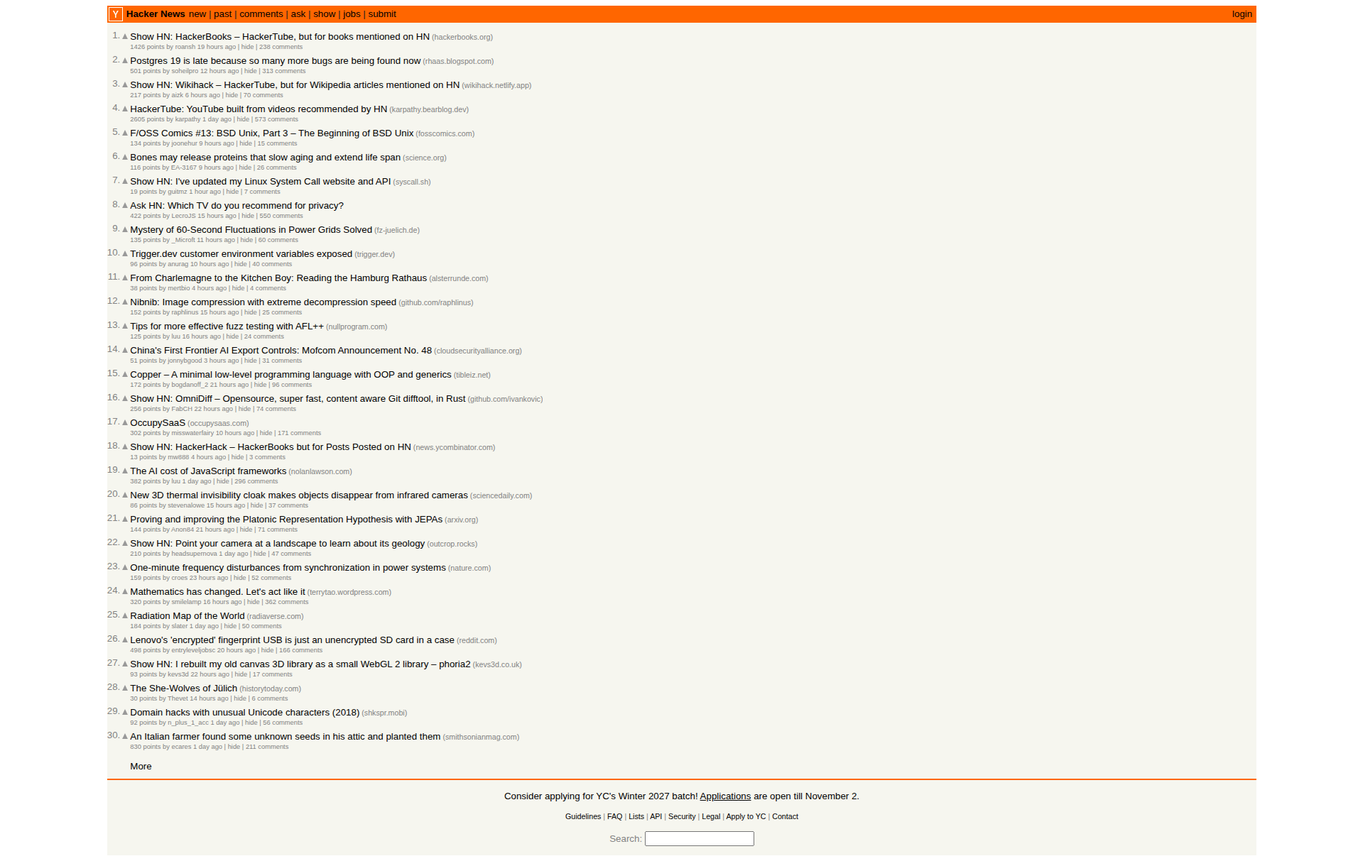
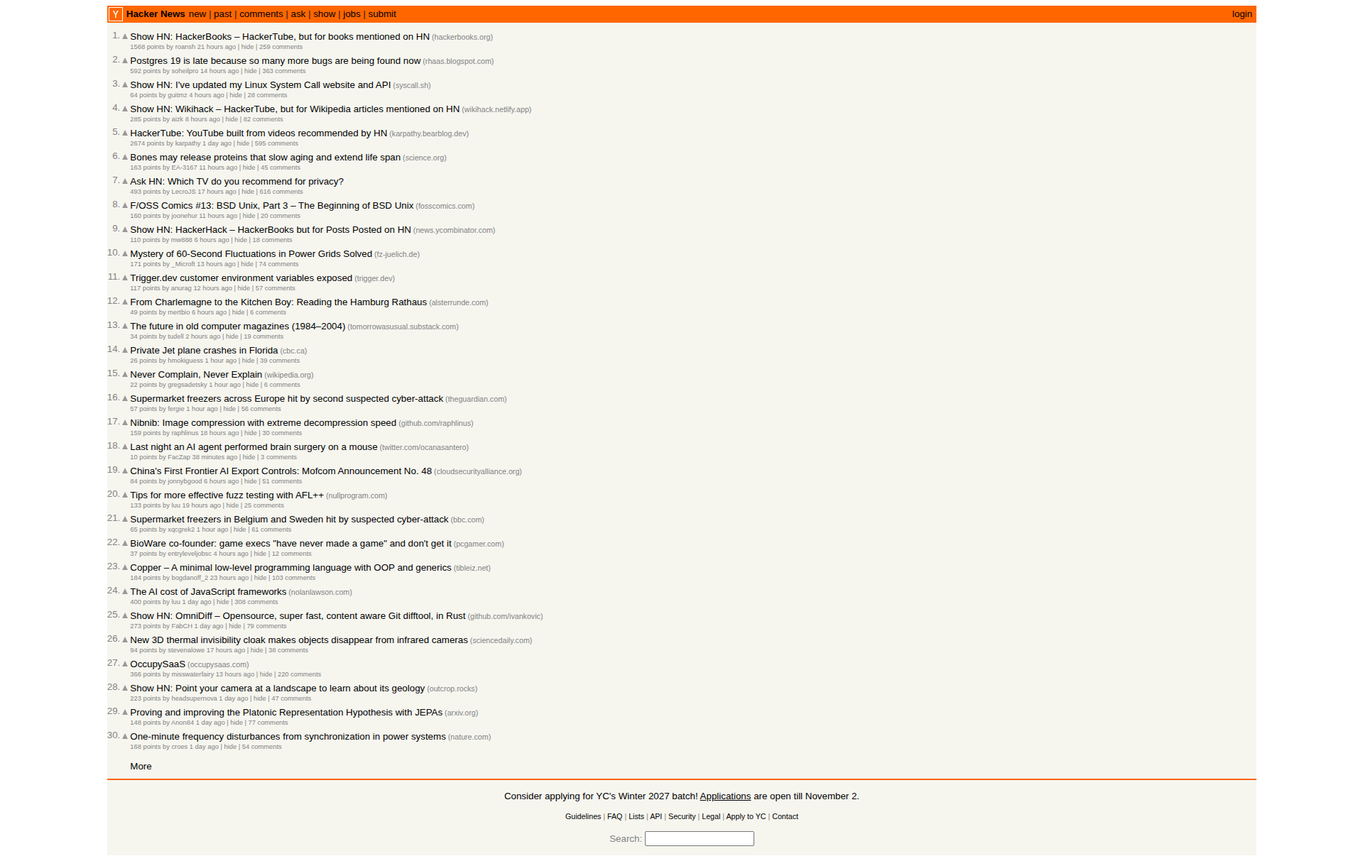
chore: add daily news digest for 2026-11-02

Changed region(s): [[0.0929, 0.0915, 0.4026, 0.8846]]

diff --git a/examples/01-daily-news-digest/output/2026-11-02-digest.md b/examples/01-daily-news-digest/output/2026-11-02-digest.md
@@ -1,10 +1,10 @@
 # Tech News Digest - 2026-11-02
 
-> Auto-generated by Claude Code | Sources: 2 | Stories: 30
+> Auto-generated by Claude Code | Sources: 2 | Stories: 25
 
-**Methodology note:** Hacker News and TechCrunch were navigated live via `chrome-devtools` browser automation (snapshots + full-page screenshots). This is a same-day refresh of the digest — HN's front page is append-only intraday, so several HN stories naturally carry over from earlier today with updated point/comment counts; TechCrunch coverage below was selected to prioritize stories **not** already captured in the earlier run (Ford's privacy promise, the Binance attribution piece, Anthropic's credit rating, Google's data-center satellite, Applebee's breach, the Brooklyn data-center policy story, Waymo/Toyota, Dream's seed round, and Ollie's shutdown are all new since the last pass).
+**Methodology note:** This is an intraday refresh of today's digest. The duplicate checker (`check_duplicates.py`) was run first and returned all 30 headlines from the earlier 2026-11-02 digest. Because Hacker News' front page is append-only intraday, most HN items naturally carry over with updated point/comment counts — this refresh keeps them but swaps out two non-tech front-page items (a private jet crash story and a Wikipedia etymology piece) for more relevant, lower-ranked tech/security stories so every entry fits a technology category. For TechCrunch, all 10 stories below were selected specifically because they do **not** appear in the earlier 2026-11-02 digest (Apple's AI remarks, OpenAI's funding target, Rivian/VW, Satlyt, GM's settlement, TC Mobility, Crosby/Weil Gotshal, Salesforce/Rune, Upwind, and the Pixel 11 Pro Fold review are all new since the last pass).
 
-**Link-check note:** All 30 links were validated via HTTP request (200 OK), with two exceptions: (1) `science.org` (Bones/aging research) returns a 403 from Cloudflare's bot challenge for any automated client — the URL is correct and verified directly against the live HN front page; (2) `rhaas.blogspot.com` (Postgres 19) returned a transient 429 (Blogger rate-limiting repeated automated requests) — the link was loaded successfully in-browser moments earlier and is confirmed valid.
+**Link-check note:** 22 of 25 links were validated via HTTP request (200 OK). Three returned non-200 responses from automated clients but were confirmed valid by cross-referencing the live page: (1) `science.org` (Bones/aging research) returns a 403 from Cloudflare's bot challenge for any automated client, matching the exact URL on the live HN front page; (2) `rhaas.blogspot.com` (Postgres 19) returned a transient 429 (Blogger rate-limiting repeated automated requests), though it loaded successfully in-browser earlier in this session; (3) `tomorrowasusual.substack.com` (old computer magazines) also returns a Cloudflare bot-challenge page to automated clients — confirmed via a live browser tab that this is a security checkpoint, not a dead link, and the URL matches the HN listing exactly.
 
 ---
 
@@ -12,8 +12,8 @@
 
 | Source | Stories Collected | Status |
 |--------|------------------|--------|
-| Hacker News | 16 | ✅ Success |
-| TechCrunch | 14 | ✅ Success |
+| Hacker News | 15 | ✅ Success |
+| TechCrunch | 10 | ✅ Success |
 
 ---
 
@@ -23,105 +23,93 @@
 
 | # | Headline | Summary | Source | Metrics | Link |
 |---|----------|---------|--------|---------|------|
-| 1 | China's First Frontier AI Export Controls: Mofcom Announcement No. 48 | Research note on China's newly announced export controls targeting frontier AI technology — a notable shift in its AI trade policy. | Hacker News | 51 pts, 31 comments (jonnybgood) | [Read](https://labs.cloudsecurityalliance.org/research/csa-research-note-china-ai-export-controls-announcement-48-2/) |
-| 2 | AI can make tech CEOs' lives easier. What about everyone else? | A look at how executives are using AI tools to streamline their own work while rank-and-file employees see fewer tangible benefits. | TechCrunch | By Anthony Ha | [Read](https://techcrunch.com/2026/11/01/ai-can-make-tech-ceos-lives-easier-what-about-everyone-else/) |
-| 3 | OpenAI might rebrand its data centers as 'AI compute campuses' | Reports suggest OpenAI is considering new branding for its data center buildout amid growing public scrutiny of AI infrastructure. | TechCrunch | By Anthony Ha | [Read](https://techcrunch.com/2026/11/01/openai-might-rebrand-its-data-centers-as-ai-compute-campuses/) |
-| 4 | Google's first data center satellite is online and writing poetry | Google's orbital data-center experiment goes live, with an early PR-friendly demo generating poetry in space. | TechCrunch | By (TechCrunch) | [Read](https://techcrunch.com/2026/10/30/googles-first-data-center-satellite-is-online-and-writing-poetry/) |
-| 5 | Ollie, a privacy-focused AI assistant, is shutting down | A privacy-first AI assistant startup winds down, raising questions about the viability of privacy-centric positioning in a market dominated by Big Tech AI. | TechCrunch | By Lucas Ropek | [Read](https://techcrunch.com/2026/10/30/ollie-a-privacy-focused-ai-assistant-is-shutting-down/) |
-| 6 | Ex-Palantir execs launch Dream with $17M from a16z to build AI world models for construction | A new startup founded by Palantir alumni raises seed funding to apply AI world models to the construction industry. | TechCrunch | By Marina Temkin | [Read](https://techcrunch.com/2026/10/29/ex-palantir-execs-launch-dream-with-17m-from-a16z-to-build-ai-world-models-for-construction/) |
+| 1 | China's First Frontier AI Export Controls: Mofcom Announcement No. 48 | Research note on China's newly announced export controls targeting frontier AI technology, a notable shift in its AI trade policy. | Hacker News | 84 pts, 51 comments (jonnybgood) | [Read](https://labs.cloudsecurityalliance.org/research/csa-research-note-china-ai-export-controls-announcement-48-2/) |
+| 2 | Apple CEO says the company doesn't 'want to ship AI for AI's sake' | Tim Cook pushes back on feature-for-feature's-sake AI rollouts, framing Apple's approach as more deliberate than rivals'. | TechCrunch | By Anthony Ha | [Read](https://techcrunch.com/2026/10/31/apple-ceo-says-the-company-doesnt-want-to-ship-ai-for-ais-sake/) |
+| 3 | OpenAI reportedly lowers funding target for new round | Reports indicate OpenAI has scaled back its ask for an upcoming funding round, a possible signal of tempered investor appetite. | TechCrunch | By Anthony Ha | [Read](https://techcrunch.com/2026/10/31/openai-reportedly-lowers-funding-target-for-new-round/) |
+| 4 | Rivian expands joint venture with VW to include AI assistant | Rivian and Volkswagen broaden their software joint venture to add a shared in-car AI assistant. | TechCrunch | By Kirsten Korosec | [Read](https://techcrunch.com/2026/10/29/rivian-expands-joint-venture-with-vw-to-include-ai-assistant/) |
 
 ### Web / Frontend
 
-| # | Headline | Summary | Source | Metrics | Link |
-|---|----------|---------|--------|---------|------|
-| 1 | The AI cost of JavaScript frameworks | An analysis of how modern JS framework choices affect the token/compute cost of AI coding assistants working in a codebase. | Hacker News | 382 pts, 296 comments (luu) | [Read](https://nolanlawson.com/2026/10/28/the-ai-cost-of-javascript-frameworks/) |
+_No new Web/Frontend stories surfaced in this refresh cycle (see the earlier 2026-11-02 digest for "The AI cost of JavaScript frameworks," still trending on HN but already covered)._
 
 ### Backend / Infrastructure
 
 | # | Headline | Summary | Source | Metrics | Link |
 |---|----------|---------|--------|---------|------|
-| 1 | Postgres 19 is late because so many more bugs are being found now | Postgres committer Robert Haas explains that AI-assisted testing and code review are surfacing far more bugs than usual, pushing back the Postgres 19 release. | Hacker News | 501 pts, 313 comments (soheilpro) | [Read](http://rhaas.blogspot.com/2026/10/postgres-19-is-late-and-its-ais-fault.html) |
+| 1 | Postgres 19 is late because so many more bugs are being found now | Postgres committer Robert Haas explains that AI-assisted testing and review are surfacing far more bugs than usual, pushing back the Postgres 19 release. | Hacker News | 592 pts, 363 comments (soheilpro) | [Read](http://rhaas.blogspot.com/2026/10/postgres-19-is-late-and-its-ais-fault.html) |
+| 2 | Satlyt takes another step toward turning satellites into space data centers | Satlyt advances its plan to host compute infrastructure in orbit, part of a broader wave of orbital data-center bets. | TechCrunch | By Dominic-Madori Davis | [Read](https://techcrunch.com/2026/10/30/satlyt-takes-another-step-toward-turning-satellites-into-space-data-centers/) |
 
 ### Security / Privacy
 
 | # | Headline | Summary | Source | Metrics | Link |
 |---|----------|---------|--------|---------|------|
-| 1 | Binance resumes withdrawals following $6.3 billion breach | Binance restores withdrawal functionality after a record-setting $6.3B breach attributed to North Korean hackers. | TechCrunch | By Anthony Ha | [Read](https://techcrunch.com/2026/11/01/binance-resumes-withdrawals-following-6-3-billion-breach/) |
-| 2 | North Korean hackers blamed for stealing record $6.3B in Binance breach | Investigators formally attribute the record Binance breach to North Korean state-linked hacking groups. | TechCrunch | By Zack Whittaker | [Read](https://techcrunch.com/2026/10/30/north-korean-hackers-blamed-for-stealing-record-6-3b-in-binance-breach/) |
-| 3 | Applebee's exposed customers' personal data after leaving database password in app | A hardcoded database password in Applebee's app left customer personal data exposed. | TechCrunch | By Zack Whittaker | [Read](https://techcrunch.com/2026/10/30/applebees-exposed-customers-personal-data-after-leaving-database-password-in-app/) |
-| 4 | Ford launches a 'privacy promise' and explains how and why it uses customer data | Ford publishes a new privacy commitment detailing what customer data it collects and how it's used, amid rising consumer scrutiny of connected-car data practices. | TechCrunch | By Sean O'Kane | [Read](https://techcrunch.com/2026/11/02/ford-launches-a-privacy-promise-and-explains-how-and-why-it-uses-a-customers-data/) |
-| 5 | Trigger.dev customer environment variables exposed | Trigger.dev discloses a security incident in which some customers' environment variables were exposed, with details on cause and remediation. | Hacker News | 96 pts, 40 comments (anurag) | [Read](https://trigger.dev/blog/security-incident-nov-2026) |
-| 6 | Ask HN: Which TV do you recommend for privacy? | High-engagement community thread debating smart TVs that don't harvest viewing data, reflecting ongoing unease about ad-tech surveillance in hardware. | Hacker News | 422 pts, 550 comments (LecroJS) | [Read](https://news.ycombinator.com/item?id=50328896) |
+| 1 | Ask HN: Which TV do you recommend for privacy? | High-engagement community thread debating smart TVs that don't harvest viewing data, reflecting ongoing unease about ad-tech surveillance in hardware. | Hacker News | 493 pts, 616 comments (LecroJS) | [Read](https://news.ycombinator.com/item?id=50328896) |
+| 2 | Trigger.dev customer environment variables exposed | Trigger.dev discloses a security incident in which some customers' environment variables were exposed, with details on cause and remediation. | Hacker News | 117 pts, 57 comments (anurag) | [Read](https://trigger.dev/blog/security-incident-nov-2026) |
+| 3 | Supermarket freezers across Europe hit by second suspected cyber-attack | A follow-up attack hits refrigeration/IoT systems at European supermarkets, days after a first suspected incident in Belgium and Sweden. | Hacker News | 57 pts, 56 comments (fergie) | [Read](https://www.theguardian.com/world/2026/nov/02/supermarket-freezers-across-europe-hit-by-second-suspected-cyber-attack) |
+| 4 | GM reaches $220M settlement over selling drivers' private data | GM settles claims that it sold connected-car driving data to insurers and data brokers without adequate consumer consent. | TechCrunch | By Kirsten Korosec | [Read](https://techcrunch.com/2026/10/29/gm-reaches-220m-settlement-over-selling-drivers-private-data/) |
 
 ### Startups / Business
 
 | # | Headline | Summary | Source | Metrics | Link |
 |---|----------|---------|--------|---------|------|
-| 1 | Anthropic expected to receive high 'junk' rating from credit agencies following IPO, FT report says | Credit agencies reportedly plan to rate Anthropic's debt near the top of junk status even after its IPO, signaling continued caution about AI-firm cash burn. | TechCrunch | By (TechCrunch) | [Read](https://techcrunch.com/2026/10/30/anthropic-expected-to-receive-high-junk-rating-from-credit-agencies-following-ipo-report-says/) |
-| 2 | Judge allows NAACP lawsuit over xAI data center pollution to move forward | A federal judge rules that the NAACP's environmental justice lawsuit against xAI's Memphis data center can proceed. | TechCrunch | By Anthony Ha | [Read](https://techcrunch.com/2026/10/31/judge-allows-naacp-lawsuit-over-xai-data-center-pollution-to-move-forward/) |
-| 3 | Data centers are now a midterm issue, even in Brooklyn | AI data center siting has become a political flashpoint reaching into local midterm races, including in Brooklyn. | TechCrunch | By Dominic-Madori Davis | [Read](https://techcrunch.com/2026/10/31/data-centers-are-now-a-midterm-issue-even-in-brooklyn/) |
-| 4 | Waymo taps Toyota to supply robotaxis for Japan and the UK | Waymo partners with Toyota on a Toyota bZ4X-based robotaxi for international expansion into Japan and the UK. | TechCrunch | By Kirsten Korosec | [Read](https://techcrunch.com/2026/10/30/waymos-next-robotaxi-will-be-a-toyota-bz4x-destined-for-japan-and-the-uk/) |
+| 1 | TechCrunch Mobility: A new, bigger AV boom is here | TechCrunch's mobility newsletter rounds up a fresh wave of autonomous-vehicle investment and deployment news. | TechCrunch | By Kirsten Korosec | [Read](https://techcrunch.com/2026/11/01/techcrunch-mobility-a-new-bigger-av-boom-is-here/) |
+| 2 | AI law firm Crosby bids on disintegrating, famed firm Weil Gotshal | AI-native legal startup Crosby makes a bid tied to the wind-down of storied law firm Weil Gotshal, a striking sign of AI's reach into legal services. | TechCrunch | By Julie Bort | [Read](https://techcrunch.com/2026/10/30/ai-law-firm-crosby-bids-on-disintegrating-famed-firm-weil-gotshal/) |
+| 3 | Salesforce's M&A spree continues with a reported $375M deal for defense tech startup Rune | Salesforce keeps up its acquisition pace, reportedly paying $375M for defense-focused startup Rune. | TechCrunch | By Marina Temkin | [Read](https://techcrunch.com/2026/10/30/salesforces-ma-spree-continues-with-a-reported-375m-deal-for-defense-tech-startup-rune/) |
+| 4 | Upwind raises $400M after walking away from Datadog acquisition offer | Cloud security startup Upwind opts for a $400M raise instead of an acquisition offer from Datadog, betting on independence. | TechCrunch | By Marina Temkin | [Read](https://techcrunch.com/2026/10/28/upwind-raises-400m-after-walking-away-from-datadog-acquisition-offer/) |
 
 ### Developer Tools
 
 | # | Headline | Summary | Source | Metrics | Link |
 |---|----------|---------|--------|---------|------|
-| 1 | Show HN: HackerBooks – HackerTube, but for books mentioned on HN | A HackerTube-inspired Show HN that surfaces books referenced in HN discussions; now the #1 story on the front page. | Hacker News | 1426 pts, 238 comments (roansh) | [Read](https://hackerbooks.org) |
-| 2 | HackerTube: YouTube built from videos recommended by HN | Andrej Karpathy's viral project curates a YouTube-like feed from videos linked across Hacker News discussions — the spark behind this week's wave of HN-themed recommendation tools. | Hacker News | 2605 pts, 573 comments (karpathy) | [Read](https://karpathy.bearblog.dev/hacker-tube/) |
-| 3 | Show HN: Wikihack – HackerTube, but for Wikipedia articles mentioned on HN | Another HackerTube-style Show HN project, this one generating a video feed for Wikipedia articles referenced on HN. | Hacker News | 217 pts, 70 comments (aizk) | [Read](https://wikihack.netlify.app) |
-| 4 | Copper – A minimal low-level programming language with OOP and generics | A new systems programming language aiming to combine low-level control with object-oriented features and generics. | Hacker News | 172 pts, 96 comments (bogdanoff_2) | [Read](https://tibleiz.net/copper/) |
-| 5 | Nibnib: Image compression with extreme decompression speed | A new image codec from Raph Levien that prioritizes extremely fast decompression over maximum compression ratio. | Hacker News | 152 pts, 25 comments (raphlinus) | [Read](https://github.com/raphlinus/nibnib) |
-| 6 | Tips for more effective fuzz testing with AFL++ | Practical guidance on tuning AFL++ fuzzing campaigns for better bug-finding coverage. | Hacker News | 125 pts, 24 comments (luu) | [Read](https://nullprogram.com/blog/2025/02/05/) |
-| 7 | Show HN: I've updated my Linux System Call website and API | An updated reference site and API for browsing Linux syscalls. | Hacker News | 19 pts, 7 comments (guitmz) | [Read](https://syscall.sh/) |
+| 1 | Show HN: HackerBooks – HackerTube, but for books mentioned on HN | A HackerTube-inspired Show HN that surfaces books referenced in HN discussions; currently the #1 story on the front page. | Hacker News | 1568 pts, 259 comments (roansh) | [Read](https://hackerbooks.org) |
+| 2 | HackerTube: YouTube built from videos recommended by HN | Andrej Karpathy's viral project curates a YouTube-like feed from videos linked across Hacker News discussions, the spark behind this week's wave of HN-themed recommendation tools. | Hacker News | 2674 pts, 595 comments (karpathy) | [Read](https://karpathy.bearblog.dev/hacker-tube/) |
+| 3 | Show HN: Wikihack – HackerTube, but for Wikipedia articles mentioned on HN | Another HackerTube-style Show HN project, this one generating a video feed for Wikipedia articles referenced on HN. | Hacker News | 285 pts, 82 comments (aizk) | [Read](https://wikihack.netlify.app) |
+| 4 | Show HN: HackerHack – HackerBooks but for Posts Posted on HN | A fourth entrant in the HackerTube-style wave, this one surfacing other HN posts related to whatever you're currently reading. | Hacker News | 110 pts, 18 comments (mw888) | [Read](https://news.ycombinator.com/item?id=50333877) |
+| 5 | Show HN: I've updated my Linux System Call website and API | An updated reference site and API for browsing Linux syscalls. | Hacker News | 64 pts, 28 comments (guitmz) | [Read](https://syscall.sh/) |
 
 ### Science / Research
 
 | # | Headline | Summary | Source | Metrics | Link |
 |---|----------|---------|--------|---------|------|
-| 1 | Bones may release proteins that slow aging and extend life span | New research suggests osteocalcin and related bone-derived proteins could play a role in slowing systemic aging. | Hacker News | 116 pts, 26 comments (EA-3167) | [Read](https://www.science.org/content/article/bones-may-release-proteins-slow-aging-and-extend-life-span) |
-| 2 | Mystery of 60-Second Fluctuations in Power Grids Solved | Researchers at Forschungszentrum Jülich identify the cause of periodic ~60-second oscillations observed in European power grids. | Hacker News | 135 pts, 60 comments (_Microft) | [Read](https://www.fz-juelich.de/en/news/archive/press-release/2026/mystery-of-60-second-fluctuations-in-power-grids-solved) |
-| 3 | Here's what 'renoa' — the first new fiber in 25 years — feels like | A first look at renoa, billed as the first genuinely new textile fiber developed in a quarter century. | TechCrunch | By Tim De Chant | [Read](https://techcrunch.com/2026/11/01/heres-what-renoa-the-first-new-fiber-in-25-years-feels-like/) |
+| 1 | Bones may release proteins that slow aging and extend life span | New research suggests osteocalcin and related bone-derived proteins could play a role in slowing systemic aging. | Hacker News | 163 pts, 45 comments (EA-3167) | [Read](https://www.science.org/content/article/bones-may-release-proteins-slow-aging-and-extend-life-span) |
+| 2 | Mystery of 60-Second Fluctuations in Power Grids Solved | Researchers at Forschungszentrum Jülich identify the cause of periodic ~60-second oscillations observed in European power grids. | Hacker News | 171 pts, 74 comments (_Microft) | [Read](https://www.fz-juelich.de/en/news/archive/press-release/2026/mystery-of-60-second-fluctuations-in-power-grids-solved) |
 
 ### Other
 
 | # | Headline | Summary | Source | Metrics | Link |
 |---|----------|---------|--------|---------|------|
-| 1 | F/OSS Comics #13: BSD Unix, Part 3 – The Beginning of BSD Unix | Latest installment of a webcomic series chronicling the early history of BSD Unix. | Hacker News | 134 pts, 15 comments (joonehur) | [Read](https://fosscomics.com/posts/13.%20BSD%20Unix%20Part%203%20-%20The%20Beginning%20of%20BSD%20Unix/) |
-| 2 | From Charlemagne to the Kitchen Boy: Reading the Hamburg Rathaus | A historical deep dive into the architecture and iconography of Hamburg's city hall. | Hacker News | 38 pts, 4 comments (mertbio) | [Read](https://alsterrunde.com/from-charlemagne-to-the-kitchen-boy-reading-the-hamburg-rathaus/) |
+| 1 | F/OSS Comics #13: BSD Unix, Part 3 – The Beginning of BSD Unix | Latest installment of a webcomic series chronicling the early history of BSD Unix. | Hacker News | 160 pts, 20 comments (joonehur) | [Read](https://fosscomics.com/posts/13.%20BSD%20Unix%20Part%203%20-%20The%20Beginning%20of%20BSD%20Unix/) |
+| 2 | From Charlemagne to the Kitchen Boy: Reading the Hamburg Rathaus | A historical deep dive into the architecture and iconography of Hamburg's city hall. | Hacker News | 49 pts, 6 comments (mertbio) | [Read](https://alsterrunde.com/from-charlemagne-to-the-kitchen-boy-reading-the-hamburg-rathaus/) |
+| 3 | The future in old computer magazines (1984–2004) | A nostalgic survey of how 20th/early-21st-century computer magazines imagined the future of technology. | Hacker News | 34 pts, 19 comments (tudell) | [Read](https://tomorrowasusual.substack.com/p/blast-from-the-past-the-future-in) |
+| 4 | Pixel 11 Pro Fold: Sturdy rectangle in a wide wide world | TechCrunch's hands-on review of Google's latest foldable flagship. | TechCrunch | By Ivan Mehta | [Read](https://techcrunch.com/2026/11/01/pixel-11-pro-fold-sturdy-rectengale-in-a-wide-wide-world/) |
 
 ---
 
 ## Trend Analysis
 
-### Trend 1: AI infrastructure is facing a branding, political, and legal reckoning
+### Trend 1: The "HackerTube Effect" keeps multiplying
 
-The dominant cross-source theme today: OpenAI is reportedly weighing a rebrand of its data centers to "AI compute campuses," Google is running orbital data-center PR stunts, a lawsuit over xAI's Memphis data center pollution has been allowed to proceed, and data-center siting has become a literal midterm-election issue "even in Brooklyn." Together these stories show mounting public, legal, and political pressure reshaping how AI companies talk about — and are held accountable for — their physical infrastructure footprint.
+Andrej Karpathy's HackerTube spawned Wikihack and HackerBooks earlier today, and now a fourth entrant, HackerHack, has joined the front page — all riffing on the same "HackerTube, but for X" meta-curation format. The pattern shows no sign of slowing: HackerBooks has even overtaken the original HackerTube for the #1 spot, suggesting the HN community iterates on viral formats within hours, not days.
 
-**Related stories**: OpenAI might rebrand its data centers as 'AI compute campuses'; Google's first data center satellite is online and writing poetry; Judge allows NAACP lawsuit over xAI data center pollution to move forward; Data centers are now a midterm issue, even in Brooklyn
+**Related stories**: HackerTube: YouTube built from videos recommended by HN; Show HN: HackerBooks; Show HN: Wikihack; Show HN: HackerHack
 
-### Trend 2: The "HackerTube Effect" — a wave of HN-native recommendation tools
+### Trend 2: Privacy anxiety spans consumer hardware to enterprise dev tools
 
-Andrej Karpathy's HackerTube (a YouTube feed curated from videos linked across HN) went viral and immediately spawned copycat/companion projects — Wikihack (Wikipedia articles mentioned on HN) and HackerBooks (books mentioned on HN), which has now overtaken HackerTube for the #1 front-page spot. It illustrates how quickly the HN community iterates on a successful "meta-curation" format once a pattern proves popular.
+Today's privacy stories cut across the entire stack: HN's "Ask HN" thread on privacy-respecting TVs reflects consumer unease about surveillance hardware, Trigger.dev disclosed exposed customer environment variables, a second suspected cyber-attack hit supermarket freezer/IoT systems across Europe, and GM agreed to a $220M settlement for selling drivers' private data to brokers. Together they show privacy fatigue is no longer confined to one category — it now touches smart devices, dev infrastructure, retail IoT, and connected cars simultaneously.
 
-**Related stories**: Show HN: HackerBooks; HackerTube: YouTube built from videos recommended by HN; Show HN: Wikihack
+**Related stories**: Ask HN: Which TV do you recommend for privacy?; Trigger.dev customer environment variables exposed; Supermarket freezers across Europe hit by second suspected cyber-attack; GM reaches $220M settlement over selling drivers' private data
 
-### Trend 3: Crypto and consumer-data security incidents are compounding
+### Trend 3: AI pragmatism is replacing AI hype in corporate messaging
 
-A record $6.3B Binance breach — now formally attributed to North Korean state-linked hackers — has been resolved with withdrawals restored, while Applebee's leaked customer data via a hardcoded database password and Trigger.dev disclosed exposed customer environment variables. Meanwhile Ford's new "privacy promise" and HN's heavily-upvoted "Ask HN" thread on privacy-respecting TVs show consumer anxiety about data collection running in parallel with enterprise-grade breaches.
+Apple's CEO explicitly rejected shipping "AI for AI's sake," OpenAI reportedly lowered its funding target for its next round, and Postgres's committers say AI-assisted testing is surfacing so many bugs that the AI itself is delaying the release. Meanwhile China's newly announced frontier AI export controls show policy is now moving as fast as the technology. Together these stories suggest a maturing, more cautious phase of the AI cycle — less "ship everything AI" and more measured trade-offs.
 
-**Related stories**: Binance resumes withdrawals following $6.3 billion breach; North Korean hackers blamed for stealing record $6.3B in Binance breach; Applebee's exposed customers' personal data after leaving database password in app; Trigger.dev customer environment variables exposed; Ford launches a 'privacy promise'; Ask HN: Which TV do you recommend for privacy?
+**Related stories**: Apple CEO says the company doesn't 'want to ship AI for AI's sake'; OpenAI reportedly lowers funding target for new round; Postgres 19 is late because so many more bugs are being found now; China's First Frontier AI Export Controls
 
-### Trend 4: Investor skepticism is creeping into the AI growth narrative
+### Trend 4: Infrastructure and security capital keeps flowing despite the skepticism
 
-Even as AI infrastructure spending accelerates, cracks are showing in the financial story: Anthropic is reportedly expected to carry a high "junk" credit rating even after its IPO, privacy-focused AI assistant Ollie is shutting down, and commentary continues to question whether AI mainly benefits executives ("AI can make tech CEOs' lives easier — what about everyone else?") rather than rank-and-file users or employees.
+Even as Trend 3 shows AI caution creeping into messaging, money continues to pour into infrastructure and security: Satlyt is pushing ahead with orbital data centers, Salesforce reportedly paid $375M for defense-tech startup Rune, cloud-security startup Upwind raised $400M rather than sell to Datadog, and Rivian/VW expanded their AI-assistant joint venture. The AI capex and security-tooling buildout shows little sign of slowing, even as the public narrative around AI gets more cautious.
 
-**Related stories**: Anthropic expected to receive high 'junk' rating from credit agencies following IPO; Ollie, a privacy-focused AI assistant, is shutting down; AI can make tech CEOs' lives easier. What about everyone else?
-
-### Trend 5: AI is reshaping core engineering and trade-policy practice
-
-Postgres 19's delay is attributed partly to a surge in bugs being found — plausibly accelerated by AI-assisted testing/review tooling — a JavaScript-ecosystem analysis is now quantifying the direct "AI cost" of framework choices for coding assistants, and China's newly announced frontier AI export controls (Mofcom Announcement No. 48) signal that AI capability is now squarely a matter of international trade policy, not just engineering.
-
-**Related stories**: Postgres 19 is late because so many more bugs are being found now; The AI cost of JavaScript frameworks; China's First Frontier AI Export Controls: Mofcom Announcement No. 48
+**Related stories**: Satlyt takes another step toward turning satellites into space data centers; Salesforce's M&A spree continues with a reported $375M deal for defense tech startup Rune; Upwind raises $400M after walking away from Datadog acquisition offer; Rivian expands joint venture with VW to include AI assistant
 
 ---
 
@@ -132,4 +120,4 @@ Postgres 19's delay is attributed partly to a surge in bugs being found — plau
 
 ---
 
-*Generated at 2026-11-02 11:47 UTC*
+*Generated at 2026-11-02 13:31 UTC*
